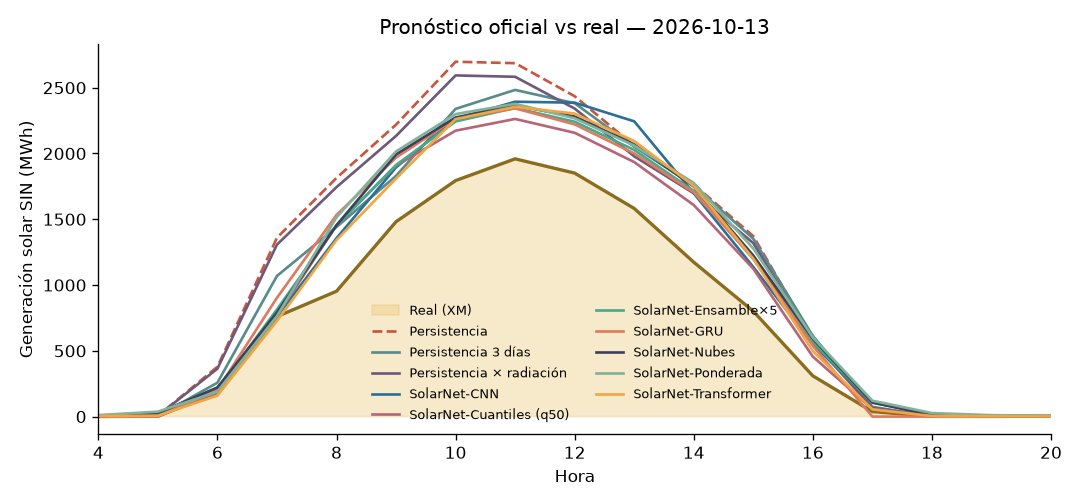
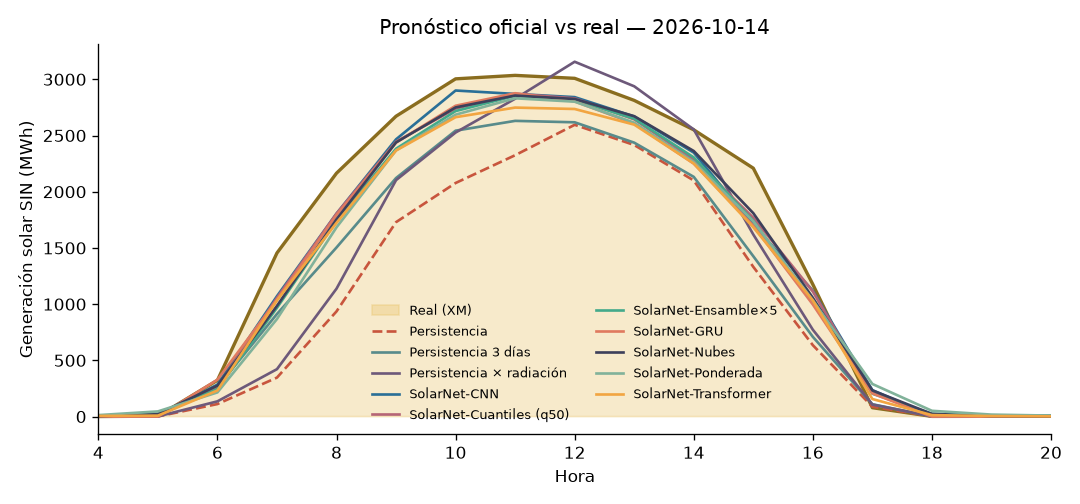
☀ Pronóstico y leaderboard 2026-10-17

diff --git a/LEADERBOARD.md b/LEADERBOARD.md
@@ -1,21 +1,21 @@
 # ☀ Liga de Pronóstico Solar Colombia — Leaderboard
 
-_Actualizado: 2026-10-16 10:50 (hora Colombia) · Métrica: MAE en horas de sol (06–18 h) · Skill = 1 − MAE/MAE_persistencia (positivo = le ganas a la persistencia)_
+_Actualizado: 2026-10-17 09:43 (hora Colombia) · Métrica: MAE en horas de sol (06–18 h) · Skill = 1 − MAE/MAE_persistencia (positivo = le ganas a la persistencia)_
 
 ## 🏆 Liga oficial (predicciones hechas ANTES de conocer el dato real)
 
 | # | Modelo | Autor | Días | MAE (MWh) | nMAE | Skill vs persistencia |
 |---|---|---|---|---|---|---|
-| 🥇 | SolarNet-Cuantiles (q50) | profe (reto 6) | 7 | 229.1 | 17.0% | -5.0% |
-| 🥈 | SolarNet-Ponderada | profe (reto 3) | 7 | 237.8 | 17.6% | -2.4% |
-| 🥉 | SolarNet-Ensamble×5 | profe (reto 5) | 7 | 245.3 | 18.2% | -8.0% |
-| 4 | SolarNet-GRU | profe | 7 | 251.4 | 18.6% | -10.0% |
-| 5 | SolarNet-Transformer | profe (reto 4) | 7 | 253.5 | 18.8% | -13.6% |
-| 6 | SolarNet-Nubes | profe (reto 2) | 7 | 254.6 | 18.9% | -13.6% |
-| 7 | SolarNet-CNN | profe (reto 4) | 7 | 256.7 | 19.0% | -18.1% |
-| 8 | Persistencia | profe | 7 | 263.8 | 19.5% | — |
-| 9 | Persistencia 3 días | profe (reto 1) | 7 | 266.0 | 19.7% | -20.1% |
-| 10 | Persistencia × radiación | profe | 7 | 349.9 | 25.9% | -44.6% |
+| 🥇 | SolarNet-Cuantiles (q50) | profe (reto 6) | 8 | 226.8 | 16.0% | +3.8% |
+| 🥈 | SolarNet-Ponderada | profe (reto 3) | 8 | 242.4 | 17.1% | +4.7% |
+| 🥉 | SolarNet-Ensamble×5 | profe (reto 5) | 8 | 244.7 | 17.3% | +0.5% |
+| 4 | SolarNet-GRU | profe | 8 | 248.4 | 17.5% | -1.0% |
+| 5 | SolarNet-CNN | profe (reto 4) | 8 | 248.6 | 17.5% | -7.3% |
+| 6 | SolarNet-Nubes | profe (reto 2) | 8 | 249.7 | 17.6% | -3.9% |
+| 7 | SolarNet-Transformer | profe (reto 4) | 8 | 254.8 | 18.0% | -4.9% |
+| 8 | Persistencia 3 días | profe (reto 1) | 8 | 282.2 | 19.9% | -13.3% |
+| 9 | Persistencia | profe | 8 | 306.0 | 21.6% | — |
+| 10 | Persistencia × radiación | profe | 8 | 352.3 | 24.9% | -34.2% |
 
 ![último día](resultados/ultimo_dia.png)
 
